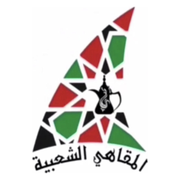
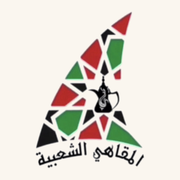
شعار بخلفية شفافة بدون الأطراف البيضا
Claude-Session: https://claude.ai/code/session_01XK3MAuwpVgjb31zfmwYjAd

Changed region(s): [[0.1667, 0.0278, 0.8333, 0.9722]]

diff --git a/index.html b/index.html
@@ -181,7 +181,7 @@ select.f{width:100%;border:1px solid var(--line);border-radius:12px;padding:11px
 .authbox form{text-align:right}
 [hidden]{display:none!important}
 header h1{display:flex;align-items:center;gap:8px}
-.hlogo{width:44px;height:44px;object-fit:contain;border-radius:10px;background:#fff}
+.hlogo{width:44px;height:44px;object-fit:contain}
 .alogo{width:120px;height:120px;object-fit:contain;display:block;margin:0 auto}
 .pay{font-size:14px;font-weight:800;border-radius:10px;padding:6px 10px;margin-top:8px}
 .pay.unpaid{background:var(--overbg);color:var(--over)}
